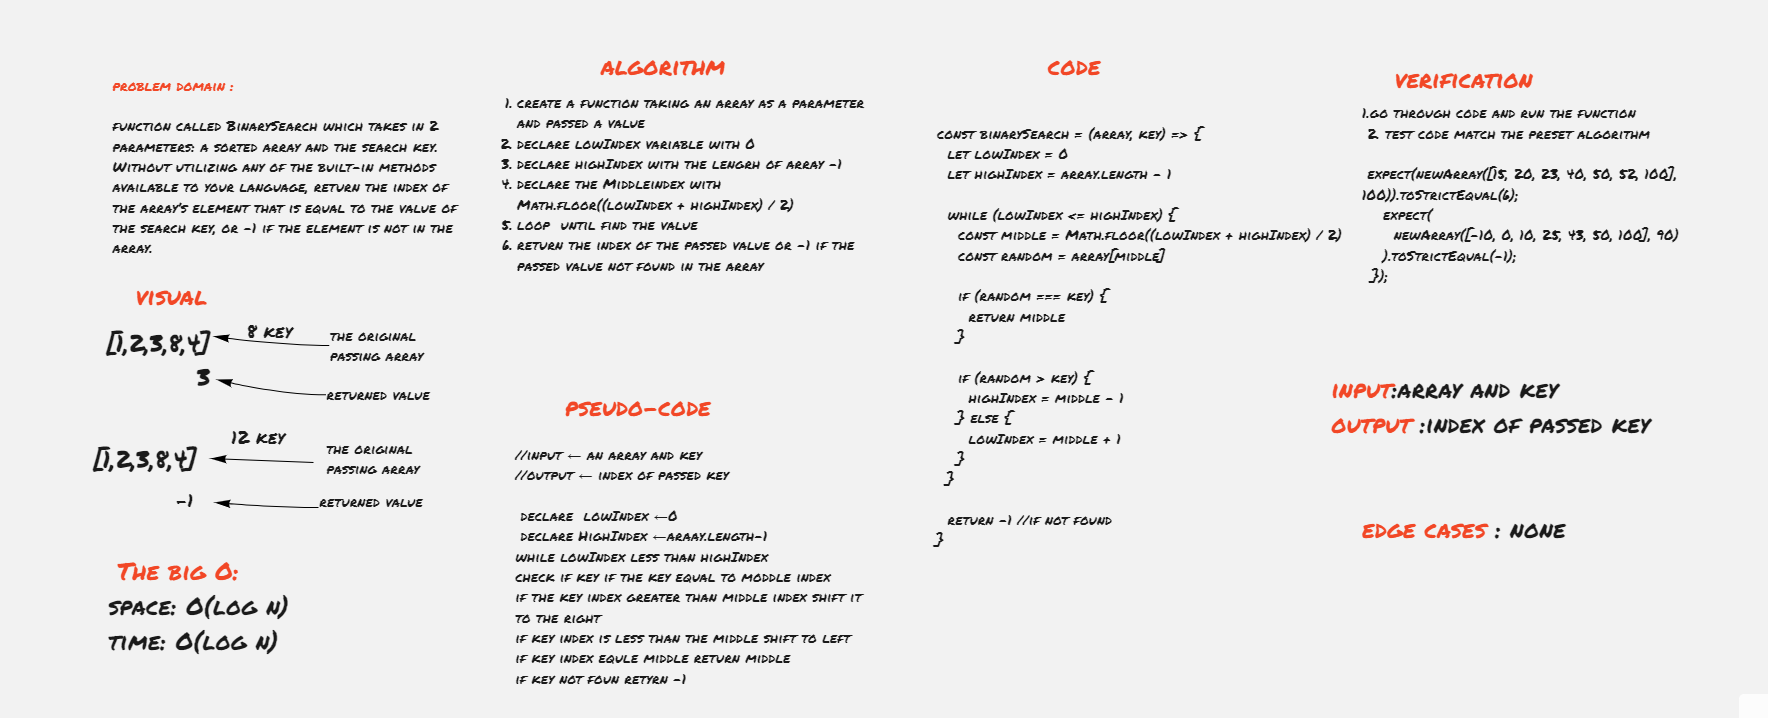
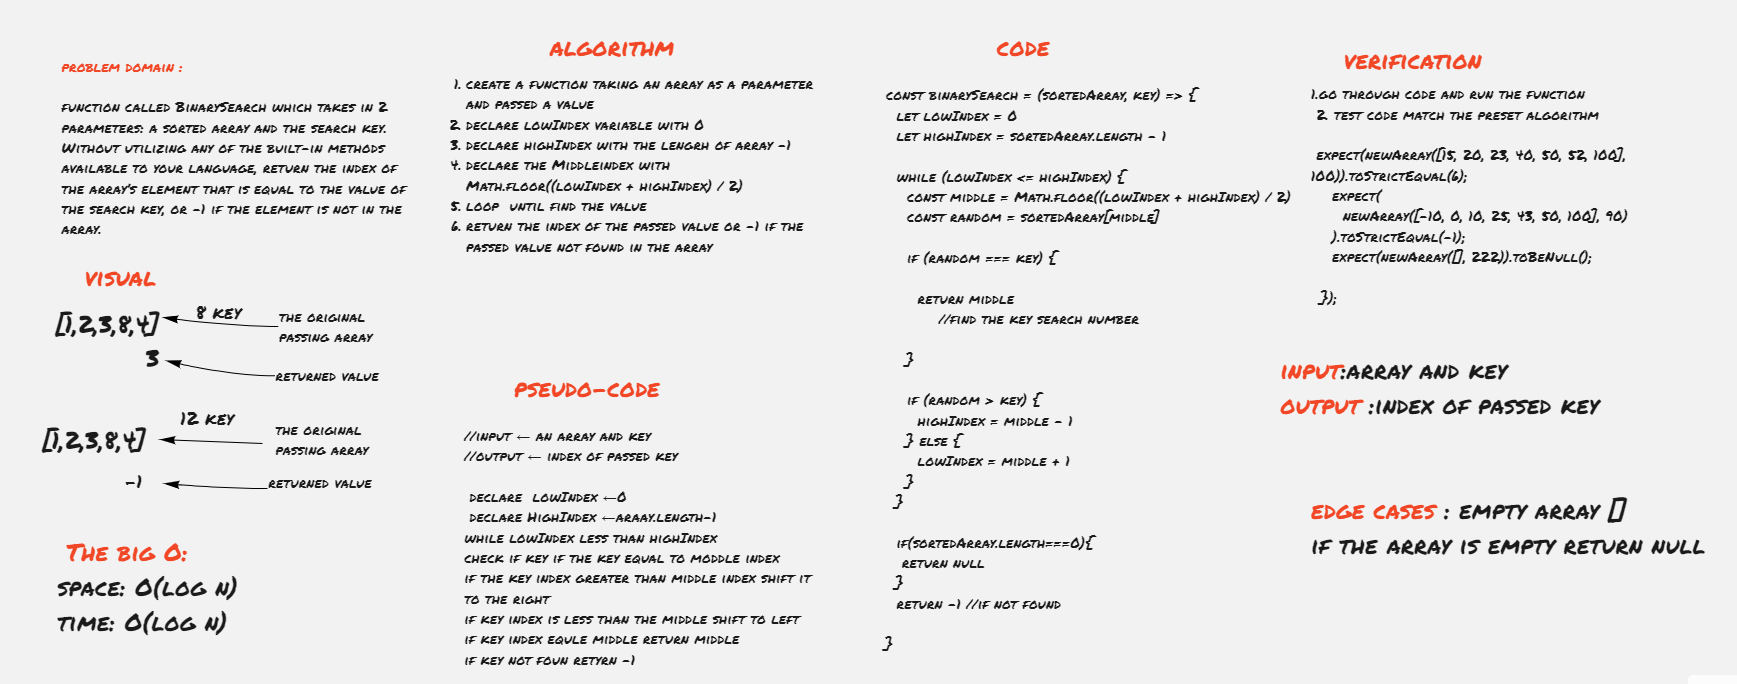
done

diff --git a/javascript/array-binary-search/__test__/array-binary.test.js b/javascript/array-binary-search/__test__/array-binary.test.js
@@ -7,6 +7,8 @@ describe("Return the index of the search key ", () => {
     expect(
       newArray([-1, 0, 58, 77, 7, 98, 14], 90)
     ).toStrictEqual(-1);
+    expect(newArray([], 222)).toBeNull();
+
     
 
   });

diff --git a/javascript/array-binary-search/array-binary-search.js b/javascript/array-binary-search/array-binary-search.js
@@ -31,7 +31,10 @@ const binarySearch = (sortedArray, key) => {
     }
   }
 
+  if(sortedArray.length===0){
+   return null
+  }
   return -1 //if not found
-}
 
+}
    module.exports = binarySearch;
